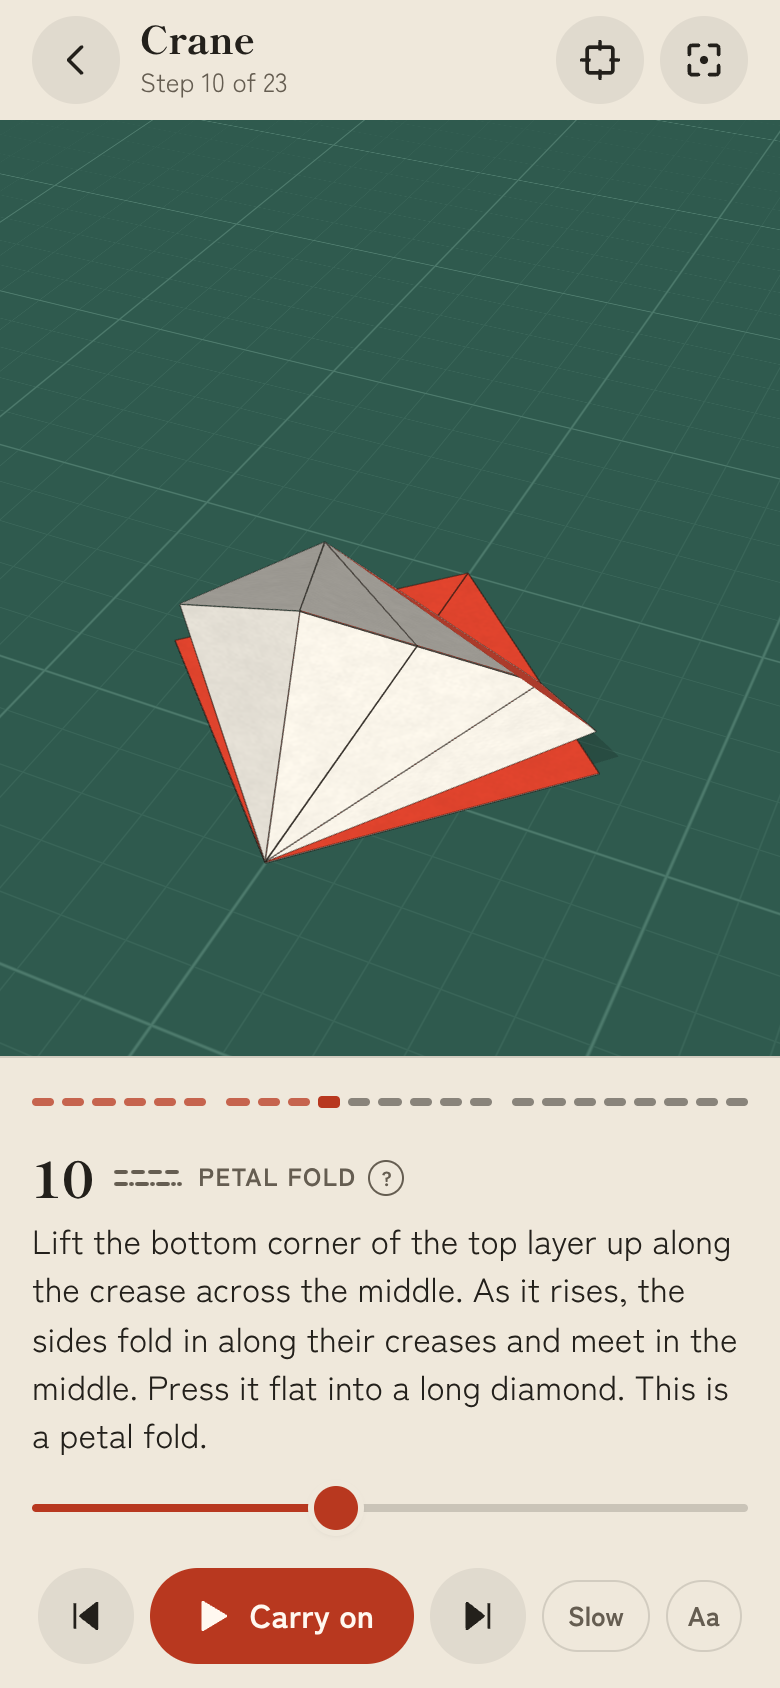
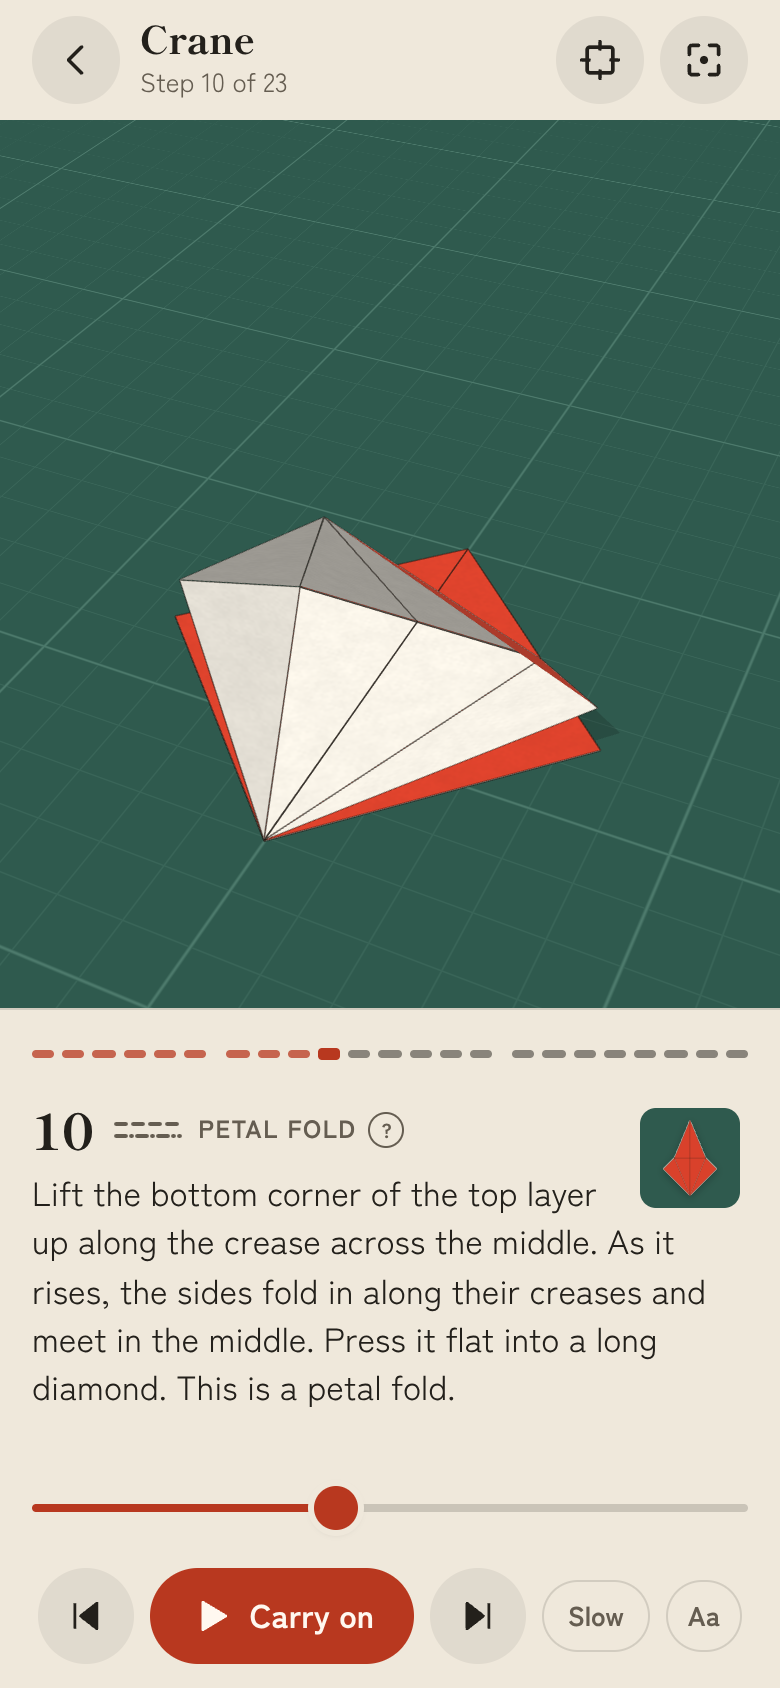
Show beside the fold's name how the paper should look after the step
Mark said yes to the picture of each step's result beside the fold's
name ("See what the paper should look like after this step"). Folding
along, you check your paper against the screen after every step, but the
result only showed while the fold played or the slider sat at its end,
with the step's marks gone. Now a small picture of the paper as the step
leaves it sits in the top right corner of the words, 50 px on a phone
and 64 px on a tablet or a wide screen, drawn in your paper the way the
gallery draws its models: from above, or standing as on the model's
card for a last step that stands it up. The words' first line keeps
clear of it. A tap takes the fold to its end, as the slider would, and the picture
is ringed in red; another takes it back to where it was. The step list's
thumbnails wait, as suggested. The README says so, its two pictures of
the petal fold are redrawn, and the tab order test now stops at the
picture after the fold's name. A test checks the picture, its taps and
its size. The offline copy's fingerprint follows the change.

Claude-Session: https://claude.ai/code/session_01PQbLNUWMG1ez4Wz6qxCK4y

diff --git a/css/app.css b/css/app.css
@@ -291,6 +291,7 @@ html:has(#player:not([hidden])) { overscroll-behavior-y: none; }
   min-height: 0; overflow: hidden;
   background: var(--bg);
   border-top: 1px solid var(--line);
+  --result: 50px; /* the picture of how the step ends, in the top right corner of the words (and their hidden copy) */
 }
 .ticks, .scrub, .controls { flex: none; }
 /* The ticks come after the step's words in the page, so a screen reader reaches the words straight after the paper,
@@ -312,7 +313,7 @@ html:has(#player:not([hidden])) { overscroll-behavior-y: none; }
    longest words (measured by the page into --words), so the paper doesn't grow and shrink from step to step; on a
    short screen the paper's own room (above) still comes first. */
 .step-now {
-  display: grid; align-content: start; gap: 4px;
+  display: grid; align-content: start; gap: 4px; position: relative;
   flex: 1 1 var(--words, auto); min-height: 0; overflow-y: auto; overscroll-behavior: contain;
 }
 .step-now.more {
@@ -321,7 +322,7 @@ html:has(#player:not([hidden])) { overscroll-behavior-y: none; }
 }
 /* The step's number in large type before its symbol and name, the way origami books number their diagrams: in the
    models' own typeface, about twice the height of the name. The bar above says which step of how many. */
-.step-head { margin: 0; display: flex; align-items: center; gap: 10px; min-width: 0; }
+.step-head { margin: 0; display: flex; align-items: center; gap: 10px; min-width: 0; padding-right: calc(var(--result) + 14px); }
 .step-num { font-family: var(--display); font-weight: 800; font-size: 1.55rem; line-height: 1.2; font-variant-numeric: lining-nums tabular-nums; }
 /* The fold's name is a button that opens the key of marks at that fold, with a small question mark after it to say so.
    It reaches a finger's 44 px down over the words, rather than up into the bar of ticks. */
@@ -338,7 +339,20 @@ html:has(#player:not([hidden])) { overscroll-behavior-y: none; }
 @media (hover: hover) { .chip:hover { color: var(--ink); } }
 .chip svg { width: 34px; height: 12px; fill: none; stroke: currentColor; stroke-width: 2; stroke-linecap: round; stroke-linejoin: round; }
 .chip .hollow { stroke-width: 1.6; }
-.say { margin: 0; font-size: 1.05rem; line-height: 1.45; min-height: 4.35em; } /* three lines at least */
+.say { margin: 0; font-size: 1.05rem; line-height: 1.45; min-height: 4.35em; display: flow-root; } /* three lines at least */
+/* Beside the fold's name, the picture of how the paper should look once the fold has landed (app.js): the step's result,
+   drawn as the gallery draws the finished models, on a piece of the mat. It's a button that takes the fold to its end and
+   back, ringed in the accent colour while the fold is there (4 px in from the corner, so the words' box doesn't cut the
+   ring off). The words' first lines keep clear of it, round a space as big as the rest of it below the fold's name (the
+   number sets that line's height). */
+.result {
+  position: absolute; top: 4px; right: 4px; width: var(--result); aspect-ratio: 1; padding: 0; border: 0; margin: 0;
+  border-radius: 8px; background: var(--mat); display: grid; place-items: center; cursor: pointer;
+}
+.result::before { content: ''; position: absolute; inset: -2px; } /* a finger's 44 px and more, within the words' box */
+.result svg { width: 84%; height: 84%; filter: drop-shadow(0 1.5px 2px rgba(0, 0, 0, .25)); }
+.result[aria-pressed="true"] { box-shadow: 0 0 0 2px var(--bg), 0 0 0 4px var(--accent); }
+.say::before { content: ''; float: right; width: calc(var(--result) + 14px); height: calc(var(--result) - 1.55rem * 1.2); }
 /* On step 1 of a model that shares a base with others, a quiet offer under the words to skip the base, a line for each,
    with the step to skip to in the accent colour. The words above keep no room of their own under them then, but keep
    the height of their own lines: where the box is too short for both (a small phone, a phone held sideways, Aa on),
@@ -451,6 +465,7 @@ html:has(#player:not([hidden])) { overscroll-behavior-y: none; }
 @media (min-width: 600px) and (max-width: 899px) and (orientation: portrait) {
   .panel > * { width: 100%; max-width: 36rem; margin-inline: auto; }
   .say { font-size: 1.2rem; }
+  .panel { --result: 64px; }
 }
 
 /* Aa, beside Slow, makes the words bigger, to read from the table with the phone at arm's length: the step's words a
@@ -559,6 +574,7 @@ html:has(#player:not([hidden])) { overscroll-behavior-y: none; }
   }
   .step-list .base-end::after { content: ''; flex: 1; border-top: 1px solid color-mix(in srgb, var(--accent) 35%, transparent); }
   .step-now { flex: none; overflow: visible; }
+  .panel { --result: 64px; }
   .say { min-height: 0; }
 }
 

diff --git a/js/app.js b/js/app.js
@@ -4,7 +4,7 @@ import { MODELS } from './models.js';
 import { build } from './build.js';
 import { poses, marks, symbol, corners, edgeOn } from './motion.js';
 import { View } from './render.js';
-import { picture } from './thumbs.js';
+import { picture, after } from './thumbs.js';
 import { FINISHED } from './finished.js';
 
 const KEY = 'fold-by-fold.v1';
@@ -204,6 +204,7 @@ function outline(m, i) {
   $('stepCount').textContent = `Step ${k + 1} of ${n}`;
   $('stepNum').textContent = k + 1;
   $('chip').textContent = ''; // the step's symbol and name come with the fold; till then, its number keeps the line
+  $('result').hidden = true; // and so does the picture of how it ends
   $('say').textContent = m.steps[k].say;
   words.scrollTop = 0;
   renderSteps(m, m.steps);
@@ -371,6 +372,7 @@ function go(i, { snap = false, keep = true } = {}) {
   P.i = Math.max(0, Math.min(i, P.b.steps.length - 1));
   P.t = 0;
   P.playing = false;
+  peek = null;
   if (keep) keepPlace(P.i, { further: true });
   keepAim();
   paint();
@@ -427,6 +429,7 @@ const placeNow = () => (P.t < 1 ? P.i : P.i < P.b.steps.length - 1 ? P.i + 1 : 0
 // counted from when they came up: pressed straight after going to a step, the marks still show before the paper
 // moves, and pressed after reading the step and looking at them, it folds at once.
 function start() {
+  peek = null;
   keepPlace();
   if (P.t >= 1) P.t = 0;
   aimFor(P.b.steps[P.i]);
@@ -467,6 +470,8 @@ function paint() {
     P.shownAt = performance.now(); // its marks fade in from now
     $('stepNum').textContent = P.i + 1;
     $('chip').innerHTML = chipFor(step);
+    $('result').innerHTML = picture(resultOf(step), { front: paperColor(), back: BACK });
+    $('result').hidden = false;
     $('say').textContent = step.say;
     $('skip').hidden = P.i !== 0 || !$('skip').childElementCount;
     tell();
@@ -513,6 +518,7 @@ function paint() {
   playButton(label, icon);
   scrubAt(P.t);
   $('speed').setAttribute('aria-pressed', prefs.slow);
+  if ($('result').getAttribute('aria-pressed') !== String(P.t >= 1)) $('result').setAttribute('aria-pressed', P.t >= 1);
   nameInAddress();
   document.querySelectorAll('#ticks button').forEach((b, k) => b.classList.toggle('done', k < P.i || (k === P.i && P.t >= 1)));
   redraw();
@@ -663,6 +669,23 @@ $('keyClose').addEventListener('click', () => sheet.close());
 let downOutside = false;
 sheet.addEventListener('pointerdown', (e) => { downOutside = e.target === sheet; });
 sheet.addEventListener('click', (e) => { if (e.target === sheet && downOutside) sheet.close(); });
+
+// How the paper should look once the step's fold has landed, beside the fold's name, to check your own paper against:
+// drawn as the gallery draws the finished models, in your paper, from above (in 3D, from where the player ends it, for
+// a step that stands the model up). A tap takes the fold to its end, to see it on the paper as well, as the slider
+// would, and another takes it back to where it was. Worked out once for each step.
+const results = new WeakMap();
+function resultOf(step) {
+  if (!results.has(step)) results.set(step, after(step));
+  return results.get(step);
+}
+let peek = null; // the step and where its fold was, when its picture took the fold to its end
+$('result').addEventListener('click', () => {
+  if (P.waiting) return;
+  const step = P.b.steps[P.i];
+  if (P.t < 1) { const was = P.t; scrubTo(1000); peek = { step, t: was }; }
+  else { const t = peek?.step === step ? peek.t : 0; scrubTo(Math.round(t * 1000)); }
+});
 
 // What you'll make, so a link to a step shows it too, not only the gallery: the finished model's picture in your paper,
 // as on its card. On a wide screen it heads the list of steps, with what the card says of the model. Under or beside the
@@ -1144,6 +1167,7 @@ function scrubTo(v) {
   if (P.waiting) { scrubAt(0); return; }
   P.t = v / 1000;
   P.playing = false;
+  peek = null;
   keepPlace(placeNow());
   keepAim();
   paint();

diff --git a/js/thumbs.js b/js/thumbs.js
@@ -5,16 +5,20 @@
 //
 // It comes in two parts so the gallery needn't fold every model to show them: finished() works out the shapes,
 // which tools/make-thumbs.mjs does ahead of time for the finished models (js/finished.js), and picture() draws
-// them in whichever paper is chosen.
+// them in whichever paper is chosen. The player draws each step's result the same way, from after().
 
 import { det, area, centroid, intersectPolys, ccw } from './geom.js';
 import { poses, corners } from './motion.js';
 
-// The shapes of a built model's finished picture: standing() for one whose last step stands it up (it has a view
-// to be seen from), outline() for one that ends flat.
+// The shapes of a built model's finished picture: its last step's.
 export function finished(b) {
-  const last = b.steps[b.steps.length - 1];
-  return last.view ? standing(poses(last, 1), last.view) : outline(b.end);
+  return after(b.steps[b.steps.length - 1]);
+}
+
+// The shapes of the paper as a step leaves it, for the picture beside the fold's name in the player: standing() for a
+// step that stands the model up (it has a view to be seen from), outline() for one that leaves it flat.
+export function after(step) {
+  return step.view ? standing(poses(step, 1), step.view) : outline(step.to);
 }
 
 // The shapes, from the table up: for each facet, 1 if the front of the paper faces up (0 for the white back),

diff --git a/sw.js b/sw.js
@@ -8,7 +8,7 @@
 // fingerprint of every file in SHELL: change any of them and test/e2e.mjs fails until FILES is changed to match (it
 // says what to), which changes this file, so every copy is made whole again at once.
 const CACHE = 'fold-by-fold-v5'; // bump the number when the file list changes
-const FILES = 'd036f453'; // test/e2e.mjs checks this
+const FILES = '01789bac'; // test/e2e.mjs checks this
 const SHELL = [
   './', 'index.html', 'icon.svg', 'manifest.webmanifest',
   'css/app.css', 'js/app.js', 'js/build.js', 'js/check.js', 'js/finished.js', 'js/geom.js', 'js/mech.js', 'js/models.js', 'js/motion.js',

diff --git a/index.html b/index.html
@@ -130,6 +130,7 @@
           <p class="step-head"><span class="step-num" id="stepNum" aria-hidden="true"></span><button type="button" class="chip" id="chip" aria-haspopup="dialog"></button></p>
           <p class="say" id="say"></p>
           <p class="skip" id="skip" hidden></p>
+          <button type="button" class="result" id="result" aria-pressed="false" aria-label="The paper after this step" title="The paper after this step" hidden></button>
           <p class="sr" id="tell" aria-live="polite"></p>
         </div>
         <ol class="ticks" id="ticks" aria-label="Steps"></ol>

diff --git a/README.md b/README.md
@@ -7,7 +7,7 @@
 <p align="center">
   <img src="docs/phone-home.png" alt="The gallery: the name Fold by Fold, a line saying to have paper ready and fold along with a link to how to read the marks, a row of paper colours to pick from, and cards for a paper cup and a paper airplane, each with a picture of the finished model, the airplane seen at an angle with its wings out, and under each name how hard it is, the paper to use and how many steps: Easy, Square, 5 steps; Easy, Printer paper, 8 steps" width="250">
   &nbsp;
-  <img src="docs/phone-marks.png" alt="Step 10 of 23 of the crane, a petal fold. A red square base lies on a green cutting mat, marked the way a printed diagram would be: a dashed valley line across it, two dash-dot mountain lines from the bottom point, and a long arrow lifting the bottom corner up past the top. Below: the step's number, 10, in large type, Petal fold with a question mark for the key, the words for the step, a slider, and Play beside Slow and Aa" width="250">
+  <img src="docs/phone-marks.png" alt="Step 10 of 23 of the crane, a petal fold. A red square base lies on a green cutting mat, marked the way a printed diagram would be: a dashed valley line across it, two dash-dot mountain lines from the bottom point, and a long arrow lifting the bottom corner up past the top. Below: the step's number, 10, in large type, Petal fold with a question mark for the key, a small picture of the long red diamond the fold makes, the words for the step, a slider, and Play beside Slow and Aa" width="250">
   &nbsp;
   <img src="docs/phone-fold.png" alt="The same petal fold seen at an angle, part way through: the bottom corner of the top layer is lifting up off the paper, and its two sides are folding in along their creases, showing the white inside" width="250">
 </p>
@@ -16,7 +16,7 @@
 
 - **Pick a model.** Fifteen of them: a paper cup, a paper airplane, a heart, a fortune teller, a cicada, a dog face, a paper hat, a jumping frog from an index card, a pinwheel, a samurai helmet, the waterbomb, the traditional crane, the flapping bird, the lily and the traditional frog, from five steps to thirty-eight. Each card says what to fold it from: a square for most, a sheet of printer paper for the airplane and the hat, an index card for the jumping frog. Pick a paper colour too; the back of the paper is always white, as it is with origami paper. The player shows what you'll make as well: on step 1 the finished model sits in a corner of the mat, in your paper, until the paper moves, and on a wide screen it heads the list of steps. A base, the standard shape many models start from, is named where it ends: the crane, flapping bird, lily and frog all start with the same six-step square base, the crane and flapping bird go on to the bird base, and the lily and frog to the frog base. The list of steps puts a small heading under a base's last step, and the bar of ticks leaves a wider gap after it. On step 1, a model that shares a base with another offers to skip it, for someone who knows it already: 'Know the bird base? Skip to step 16'.
 - **The crane and the frog have the folds drawings make hardest.** Collapsing a base, where six or eight creases close at once. Squash folds, where a flap stands up, opens and presses flat. Petal folds, where a corner lifts and its sides fold in to meet under it. Inside reverse folds for the crane's neck and tail and the frog's legs, where a thin flap turns inside out and tucks up between its own layers. Tucks, where a point slides into a pocket. Each one plays as a single motion, and you can stop it anywhere.
-- **Each step starts as a diagram.** Before a fold, the paper shows the marks a printed diagram would: a dashed line for a valley fold (toward you), dashes and dots for a mountain fold (behind), and an arrow for which way it goes. The arrowhead is solid for a valley fold, hollow on one side for a mountain fold, and hollow on both sides to open a fold out again; a fold and unfold has one at each end. A step that turns the model over or around shows its symbol on the table in front of it. Underneath are the step's number, in large type the way origami books print it, the name of the fold, and what to do. Tap the fold's name, with its small question mark, and the key to the marks opens over the player at that fold, without leaving the model; ×, Escape or a tap outside it closes it again.
+- **Each step starts as a diagram.** Before a fold, the paper shows the marks a printed diagram would: a dashed line for a valley fold (toward you), dashes and dots for a mountain fold (behind), and an arrow for which way it goes. The arrowhead is solid for a valley fold, hollow on one side for a mountain fold, and hollow on both sides to open a fold out again; a fold and unfold has one at each end. A step that turns the model over or around shows its symbol on the table in front of it. Underneath are the step's number, in large type the way origami books print it, the name of the fold, and what to do. Beside the fold's name, a small picture shows how the paper should look once the fold has landed, in your paper, to check yours against: from above, or standing, as on the model's card, for a last step that stands the model up. A tap on it takes the fold to its end, and another takes it back to where it was. Tap the fold's name, with its small question mark, and the key to the marks opens over the player at that fold, without leaving the model; ×, Escape or a tap outside it closes it again.
 - **Press Play and it folds.** A tap on the paper does what Play does too, for a knuckle or a busy finger. The flap turns over about the crease and lands on its new layer. Then Next fold, or the skip button, goes to the next step and stops there, with its marks on the paper, until you press Play. A fold behind tips the model up on one edge while the flap swings underneath, and lays it down again. A fold that would stand the paper edge-on to you halfway (every turn over, say) turns the view 20 degrees to the side as it starts, and the next step is seen straight on again. Slow makes every fold take a little over twice as long, and is filled in red while it's on. On a phone or tablet, Aa beside it makes the step's words about a third bigger and the fold's name a little bigger, to read with the phone on the table at arm's length; it's filled in while it's on too, and the longest words scroll in their box on a small phone. Once the paper has moved, the back button reads Replay this fold and plays the fold again from its start; before that, it goes to the step before. When the last fold lands, the model is finished: the bar says so, the view turns to see the model at an angle (its own, for a model that stands up), and All models, to go back to them, takes the place of Next, Slow and Aa beside Start again. From a keyboard, Space plays and pauses, → goes to the next step, ← does what the back button does, and Escape goes back to the models (or, with the key to the marks open, closes it).
 - **Scrub it.** The slider under the words is the fold itself: drag it to stop the paper anywhere between flat and folded, and back. Its arrow keys move the fold a twentieth of the way at a time.
 - **Turn it around.** Drag the paper to see it from any side. Pinch or scroll to zoom in on the spot you point at, and move two fingers together to slide the view along the paper. Double-tap to put the view back (so does the button with four corners round a dot). On the steps with the smallest folds (the heads of the crane and the flapping bird, the waterbomb's points), the view moves in on the part that folds, and back out for the next step; double-tap comes back to that close view, and a pinch out shows the whole model. The square button looks straight down, the way a diagram does. On a phone held sideways, the words go beside the paper and run the full height of the screen, and these two buttons sit on the paper's top right corner. From a keyboard, Tab to the paper: the arrow keys turn it, and + and − zoom.
@@ -69,7 +69,7 @@ The traditional frog is folded the way stiff paper allows, which differs a littl
 - `js/build.js`: turns a model's steps into the folded states between them. `js/models.js`: the models.
 - `js/motion.js`: where every piece of paper is, in 3D, at any moment of a fold, and the diagram marks for it.
 - `js/render.js`: the WebGL drawing: two-sided paper, the cutting mat, shadows, the marks and the camera.
-- `js/thumbs.js`: the pictures of the finished models on the gallery's cards: from above for a model that ends flat, and in 3D, from where the player ends it, for one that ends standing up. `js/finished.js`: their shapes, worked out ahead of time by `tools/make-thumbs.mjs`.
+- `js/thumbs.js`: the pictures of the finished models on the gallery's cards: from above for a model that ends flat, and in 3D, from where the player ends it, for one that ends standing up. The picture of each step's result beside the fold's name is drawn the same way. `js/finished.js`: their shapes, worked out ahead of time by `tools/make-thumbs.mjs`.
 - `js/app.js`: the page, the player and its controls.
 - `fonts/`: Shippori Mincho B1 and Zen Kaku Gothic New (SIL Open Font License), served from here so nothing loads from elsewhere.
 - `sw.js`: keeps a copy for using offline. `npm test` checks that it lists every file the page needs.
